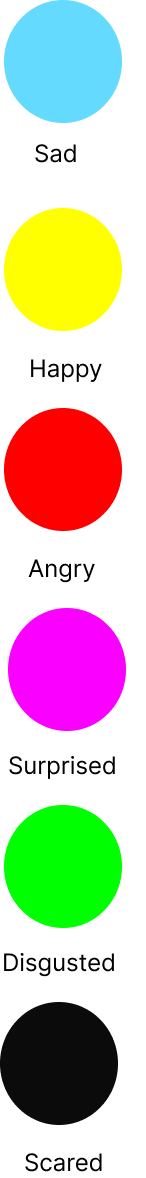
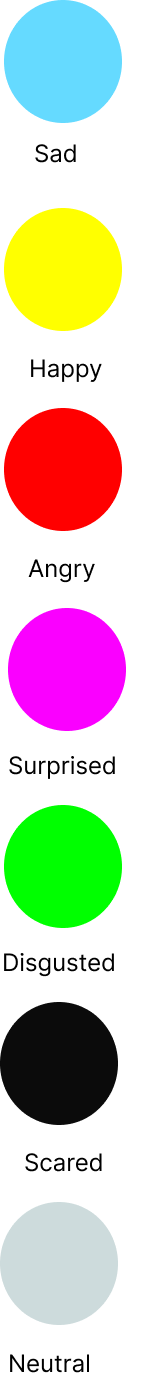
updated legenda

diff --git a/js/script.js b/js/script.js
@@ -365,7 +365,7 @@ function showMoodChanges(moodSet, tableNumber, counter, averageMoodToReturn, coc
                 moodsInCodes.push('#FA00FF');
               break;
               case "Scared":
-                moodsInCodes.push('#CBCBC6');
+                moodsInCodes.push('#000');
               break;
             case "Disgusted":
                 moodsInCodes.push('#00FF00');

diff --git a/css/stylesheet.css b/css/stylesheet.css
@@ -206,6 +206,6 @@ form#filterForm label, form#filterForm input {
 }
 
 .legenda img {
-    width: 79%;
+    width: 65%;
     margin-top: 12%;
 }
